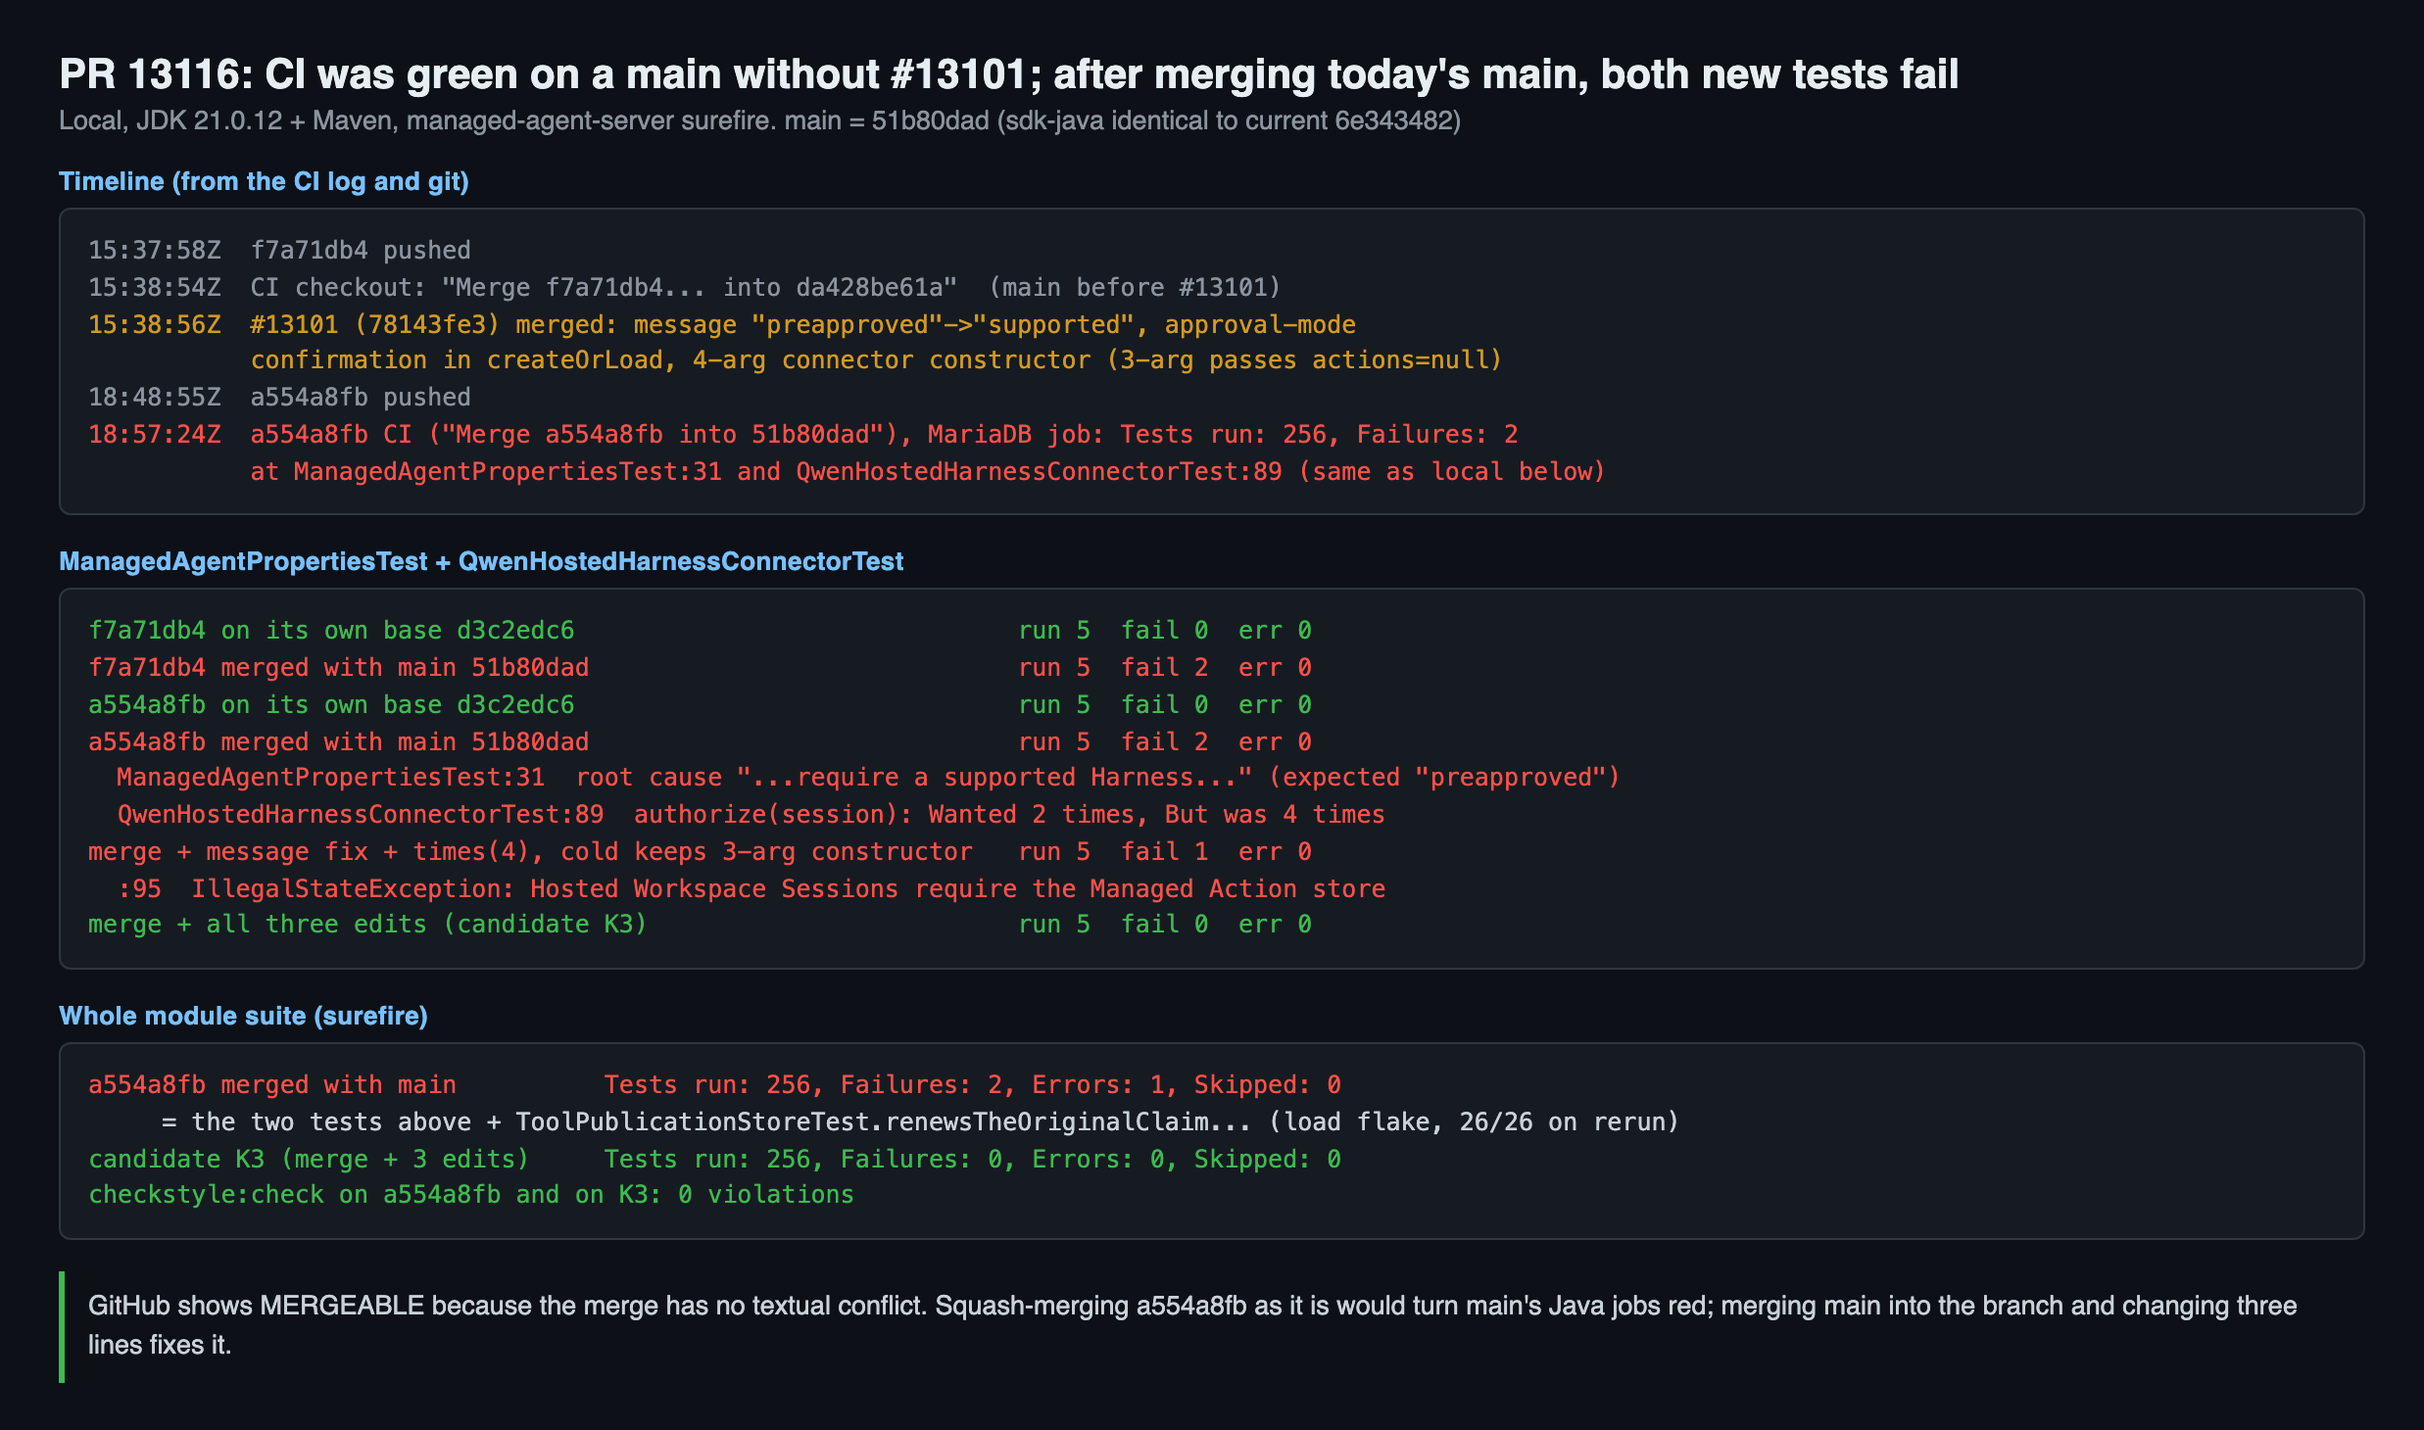
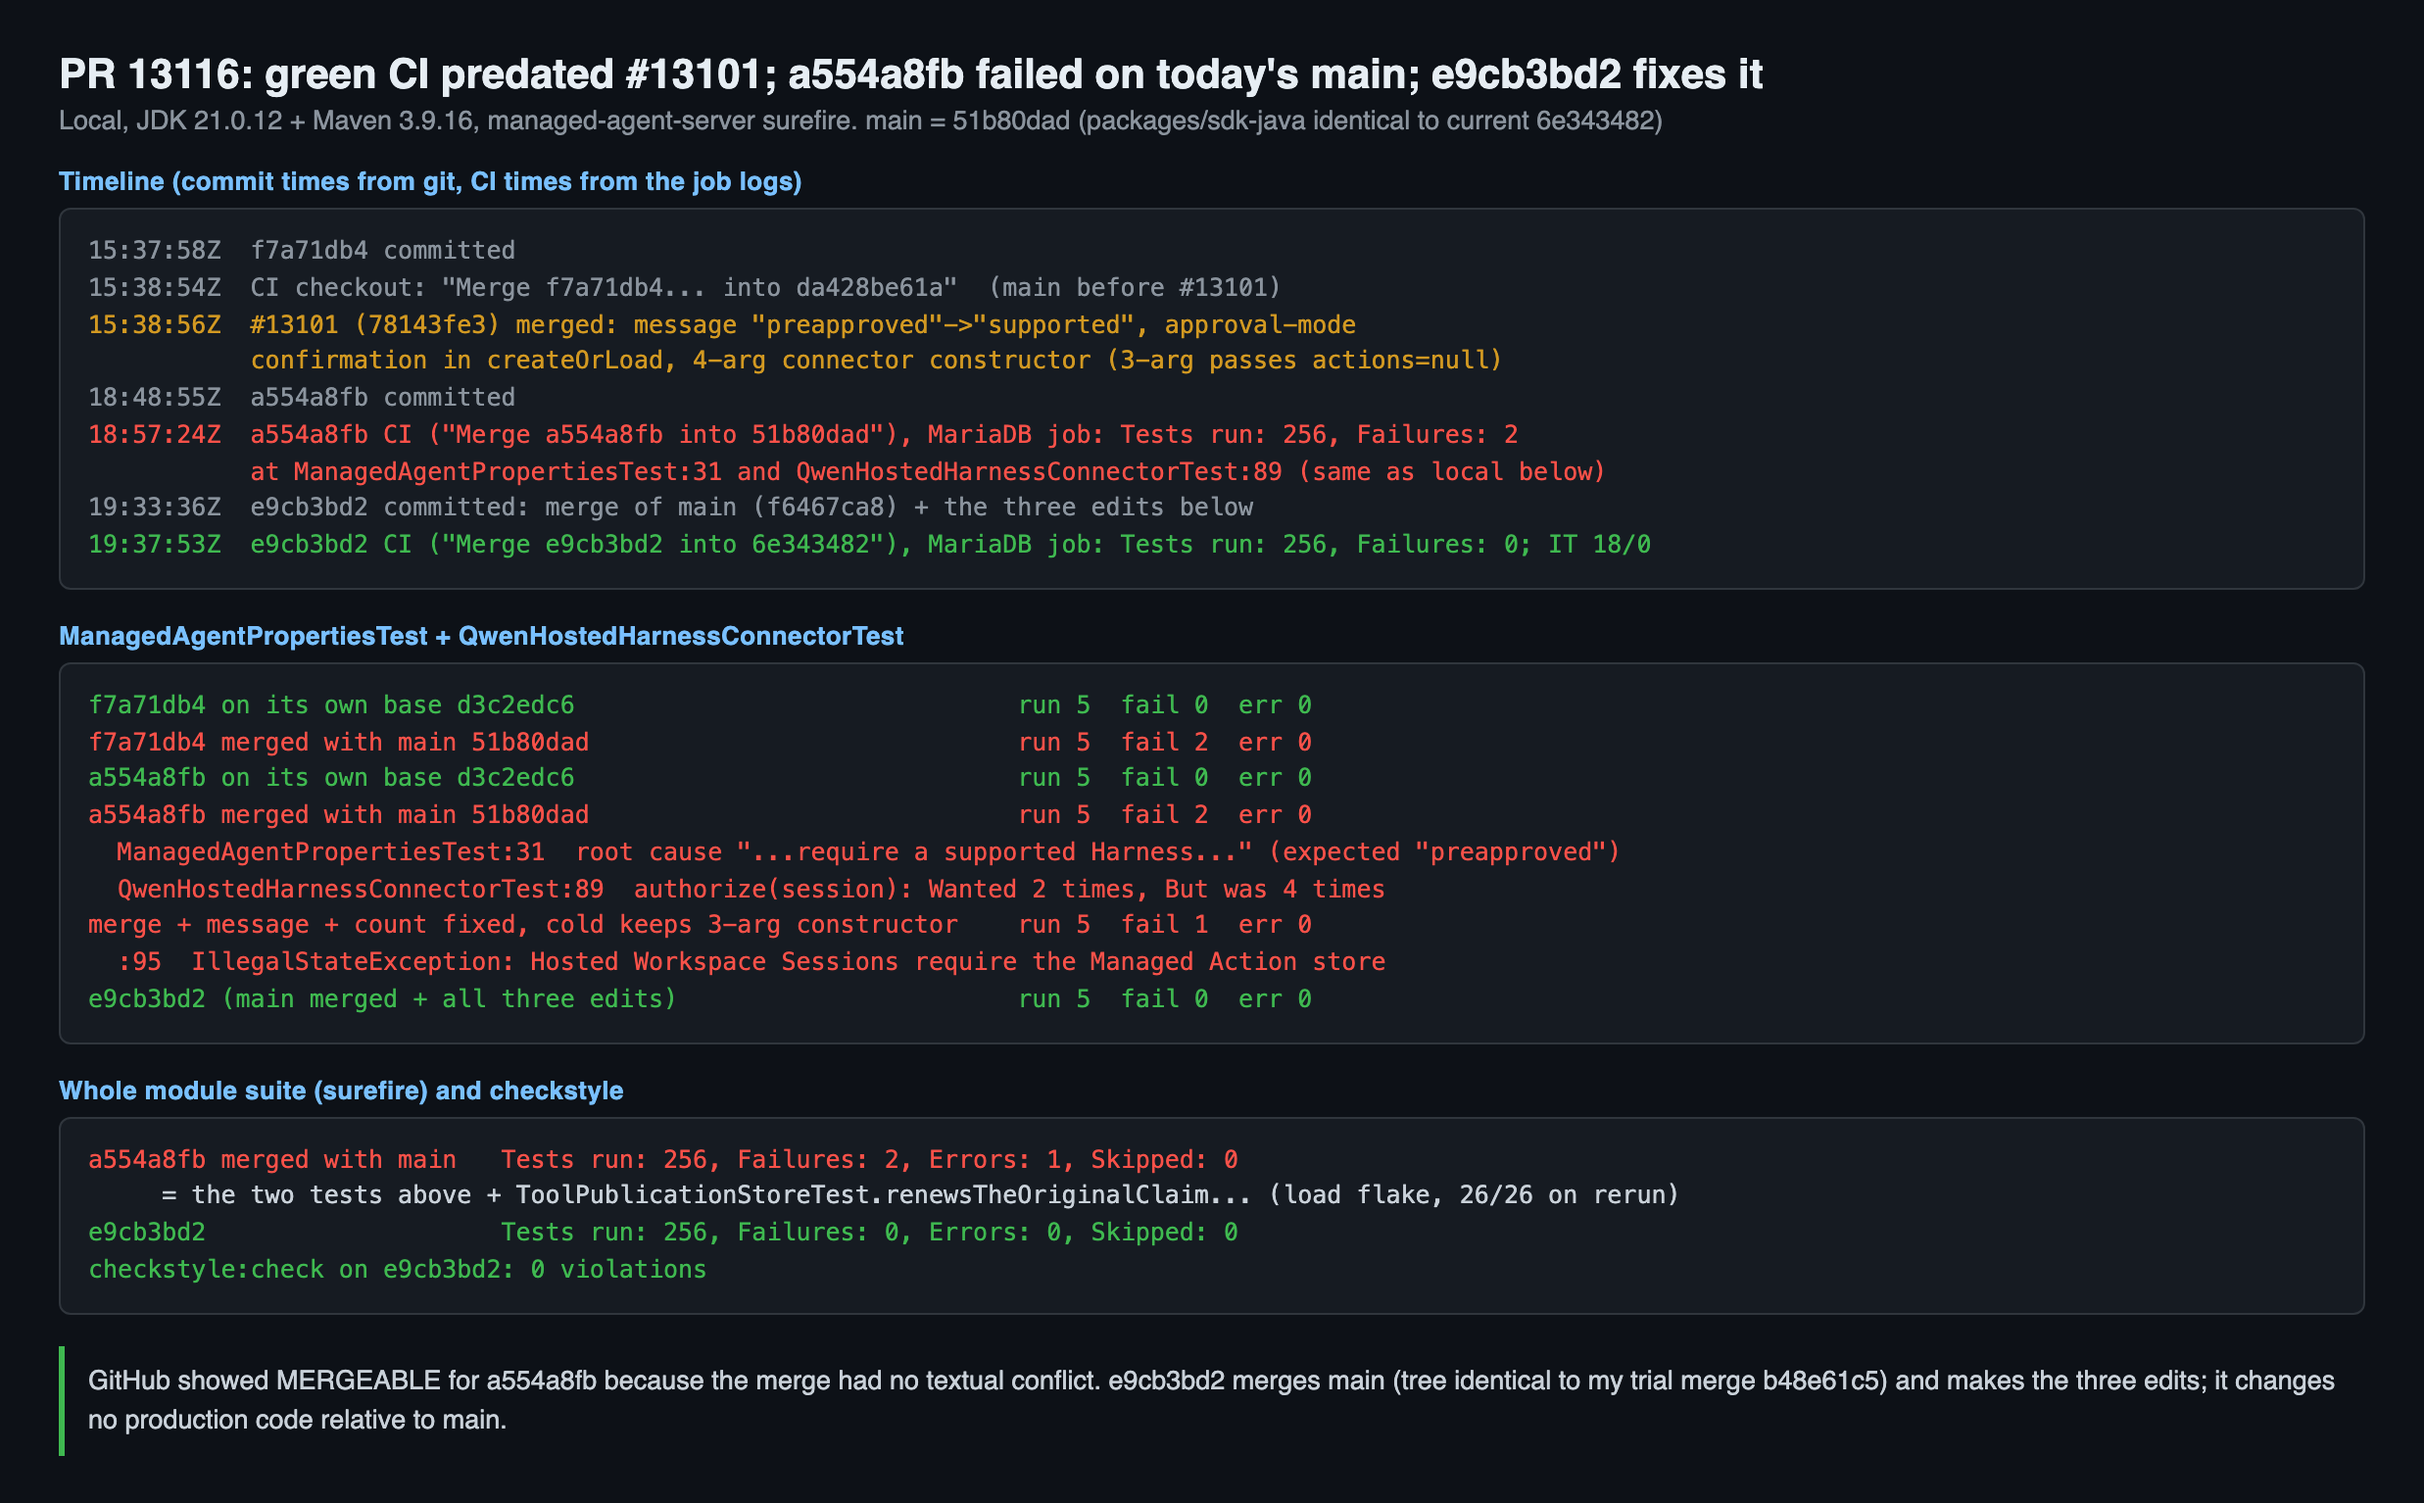
PR 13116 verification evidence: final head e9cb3bd2

Changed region(s): [[0.0311, 0.0308, 0.8092, 0.6781], [0.0, 0.7089, 0.6847, 0.863], [0.0311, 0.8938, 0.9648, 0.9555]]

diff --git a/pr13116/README.md b/pr13116/README.md
@@ -1,11 +1,11 @@
 # PR 13116 local verification evidence
 
-Heads verified: `f7a71db4` (round 1) and `a554a8fb` (current). main: `51b80dad` (packages/sdk-java identical to `6e343482`).
+Heads verified: `f7a71db4` (round 1), `a554a8fb` (round 2) and `e9cb3bd2` (final: main merged + three test edits). main: `51b80dad` (packages/sdk-java identical to `6e343482`).
 Trial merges: `f7a71db4 ⊕ main` = tree `410063ed`, `a554a8fb ⊕ main` = tree `b48e61c5` (see `results/refs.env`).
 
 - `0*.png`: evidence cards, generated by `harness/gen-figs.mjs` from the files under `results/`.
 - `results/targeted*.txt`: the two changed test classes per tree. `results/matrix-<scope>-<arm>.tsv`: one line per mutant
-  (`scope` = targeted | full). Arms: `base` = main tests at the PR base, `head` = f7a71db4, `head2` = a554a8fb,
+  (`scope` = targeted | full). Arms: `base` = main tests at the PR base, `head` = f7a71db4, `head2` = a554a8fb, `head3` = e9cb3bd2,
   `main`/`mainA`/`mainB` = main tests on main production code, `k1`/`k2` = round-1 candidates, `k3`/`k4` = candidates on
   `a554a8fb ⊕ main`, `merge`/`merge2` = unmodified trial merges.
 - Two runs of the main whole-suite matrix once collided on one worktree; those rows were discarded and the matrix was
